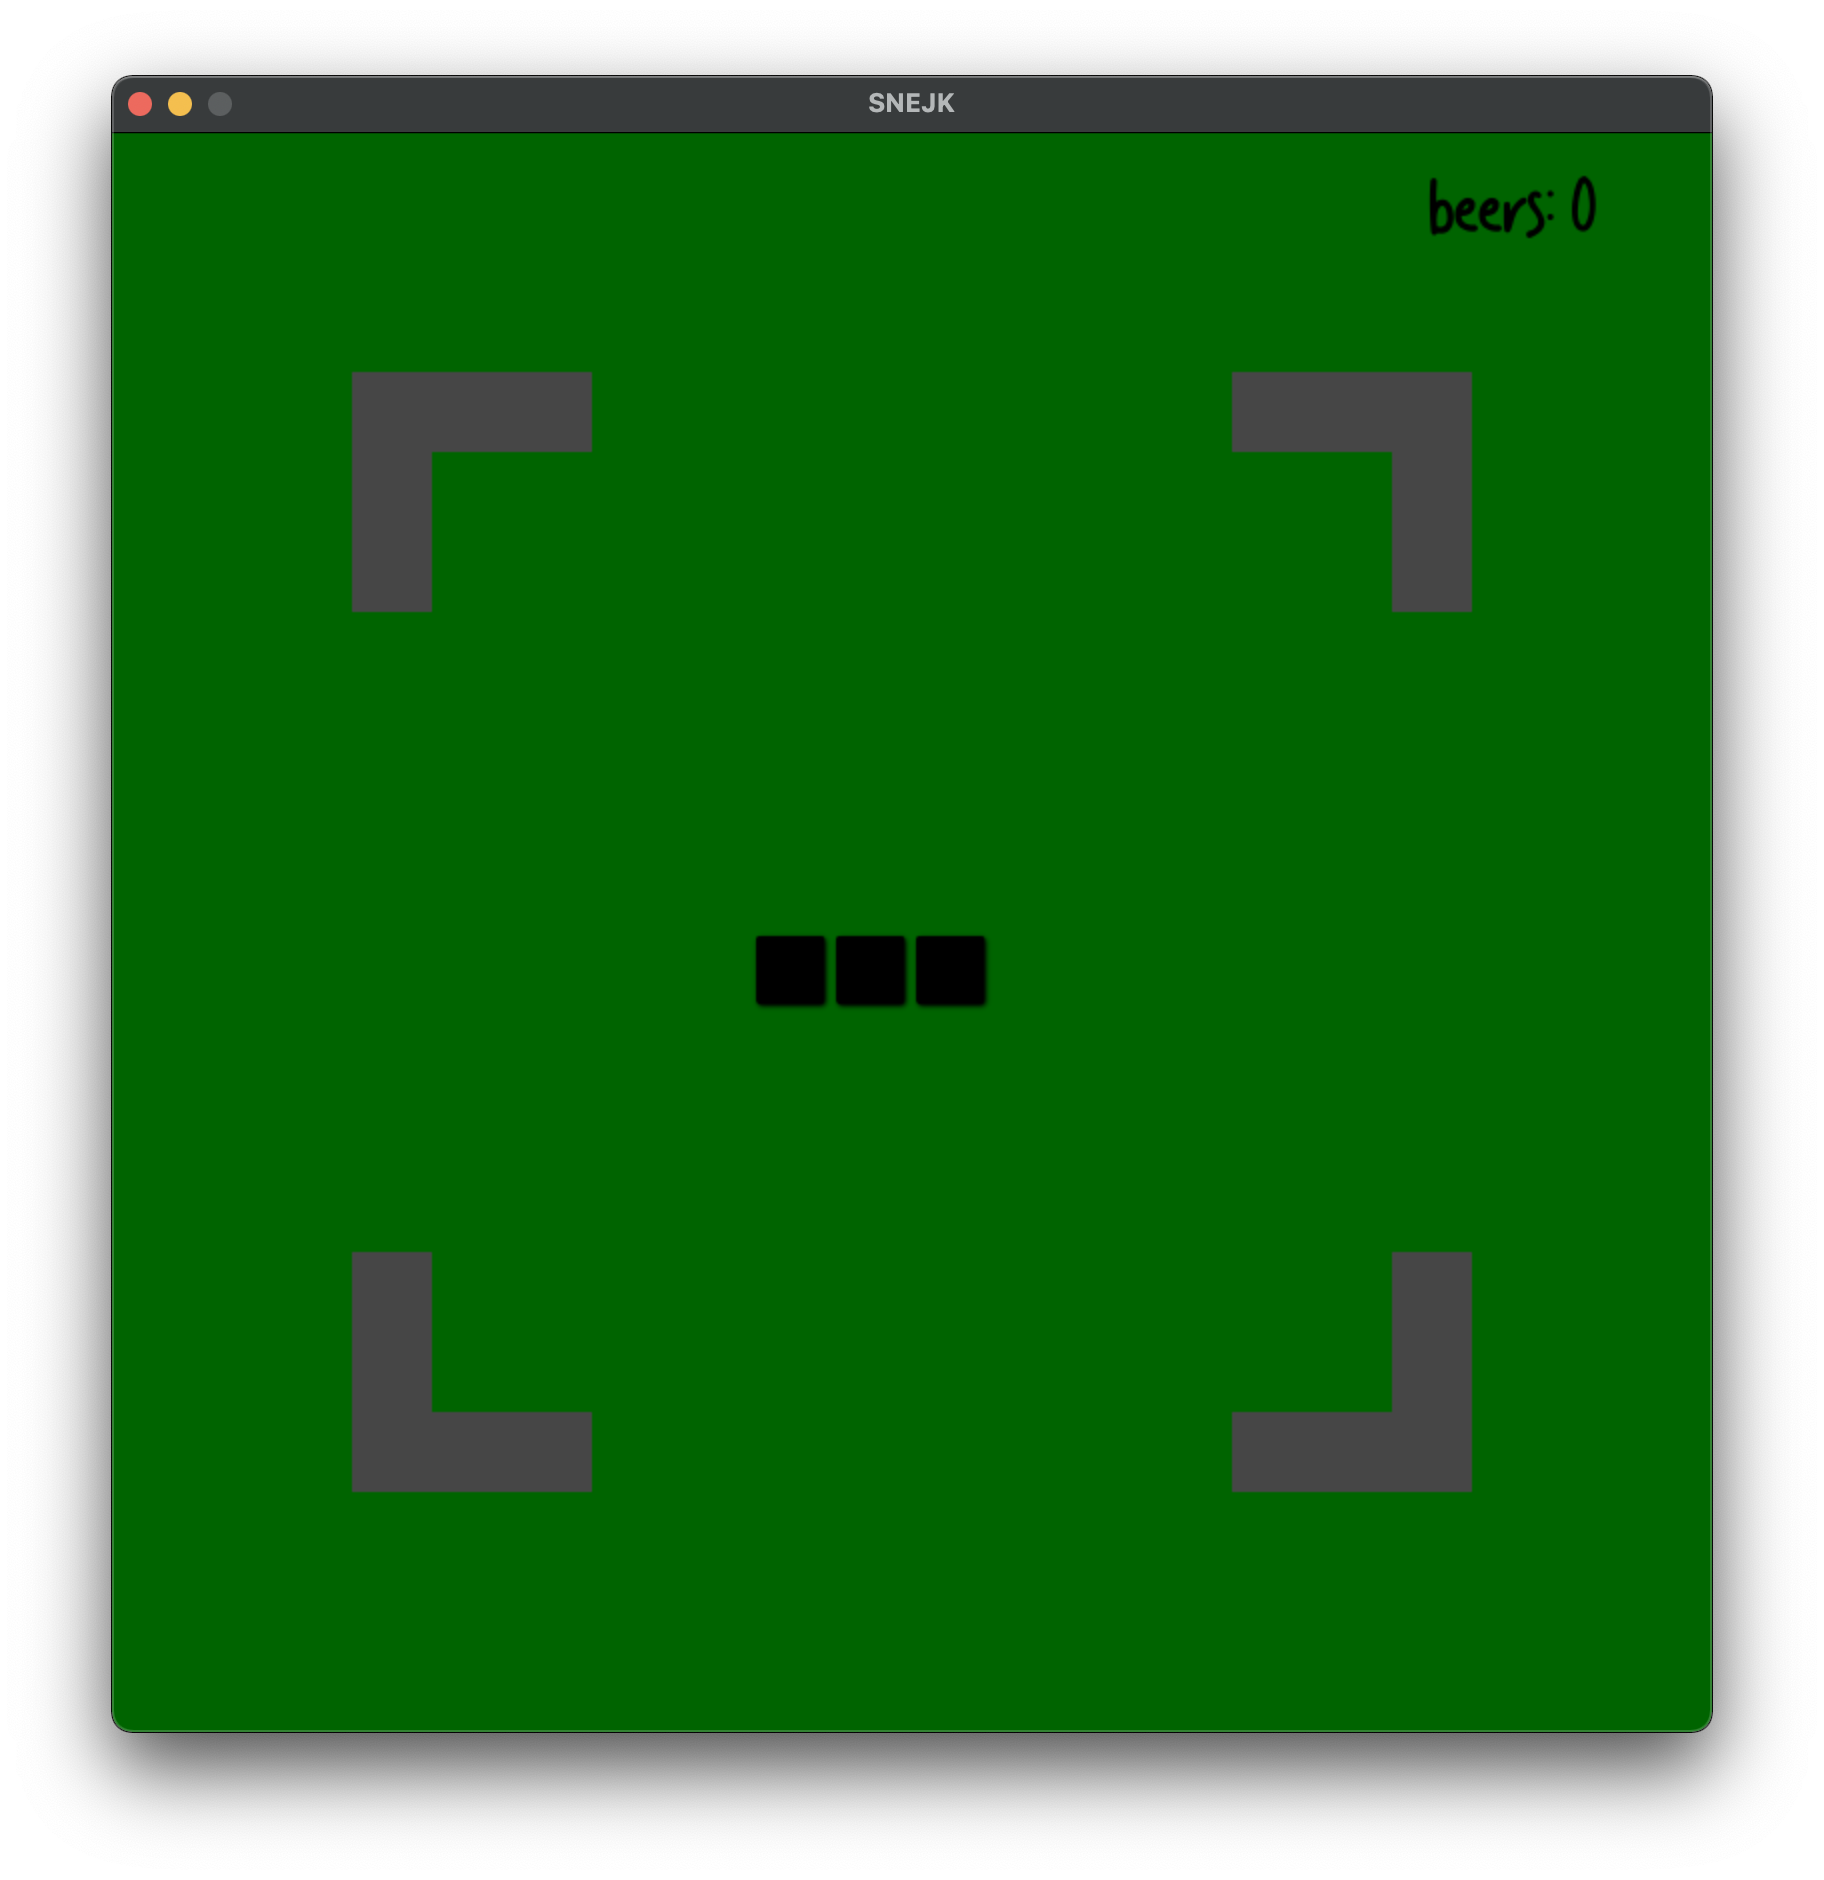
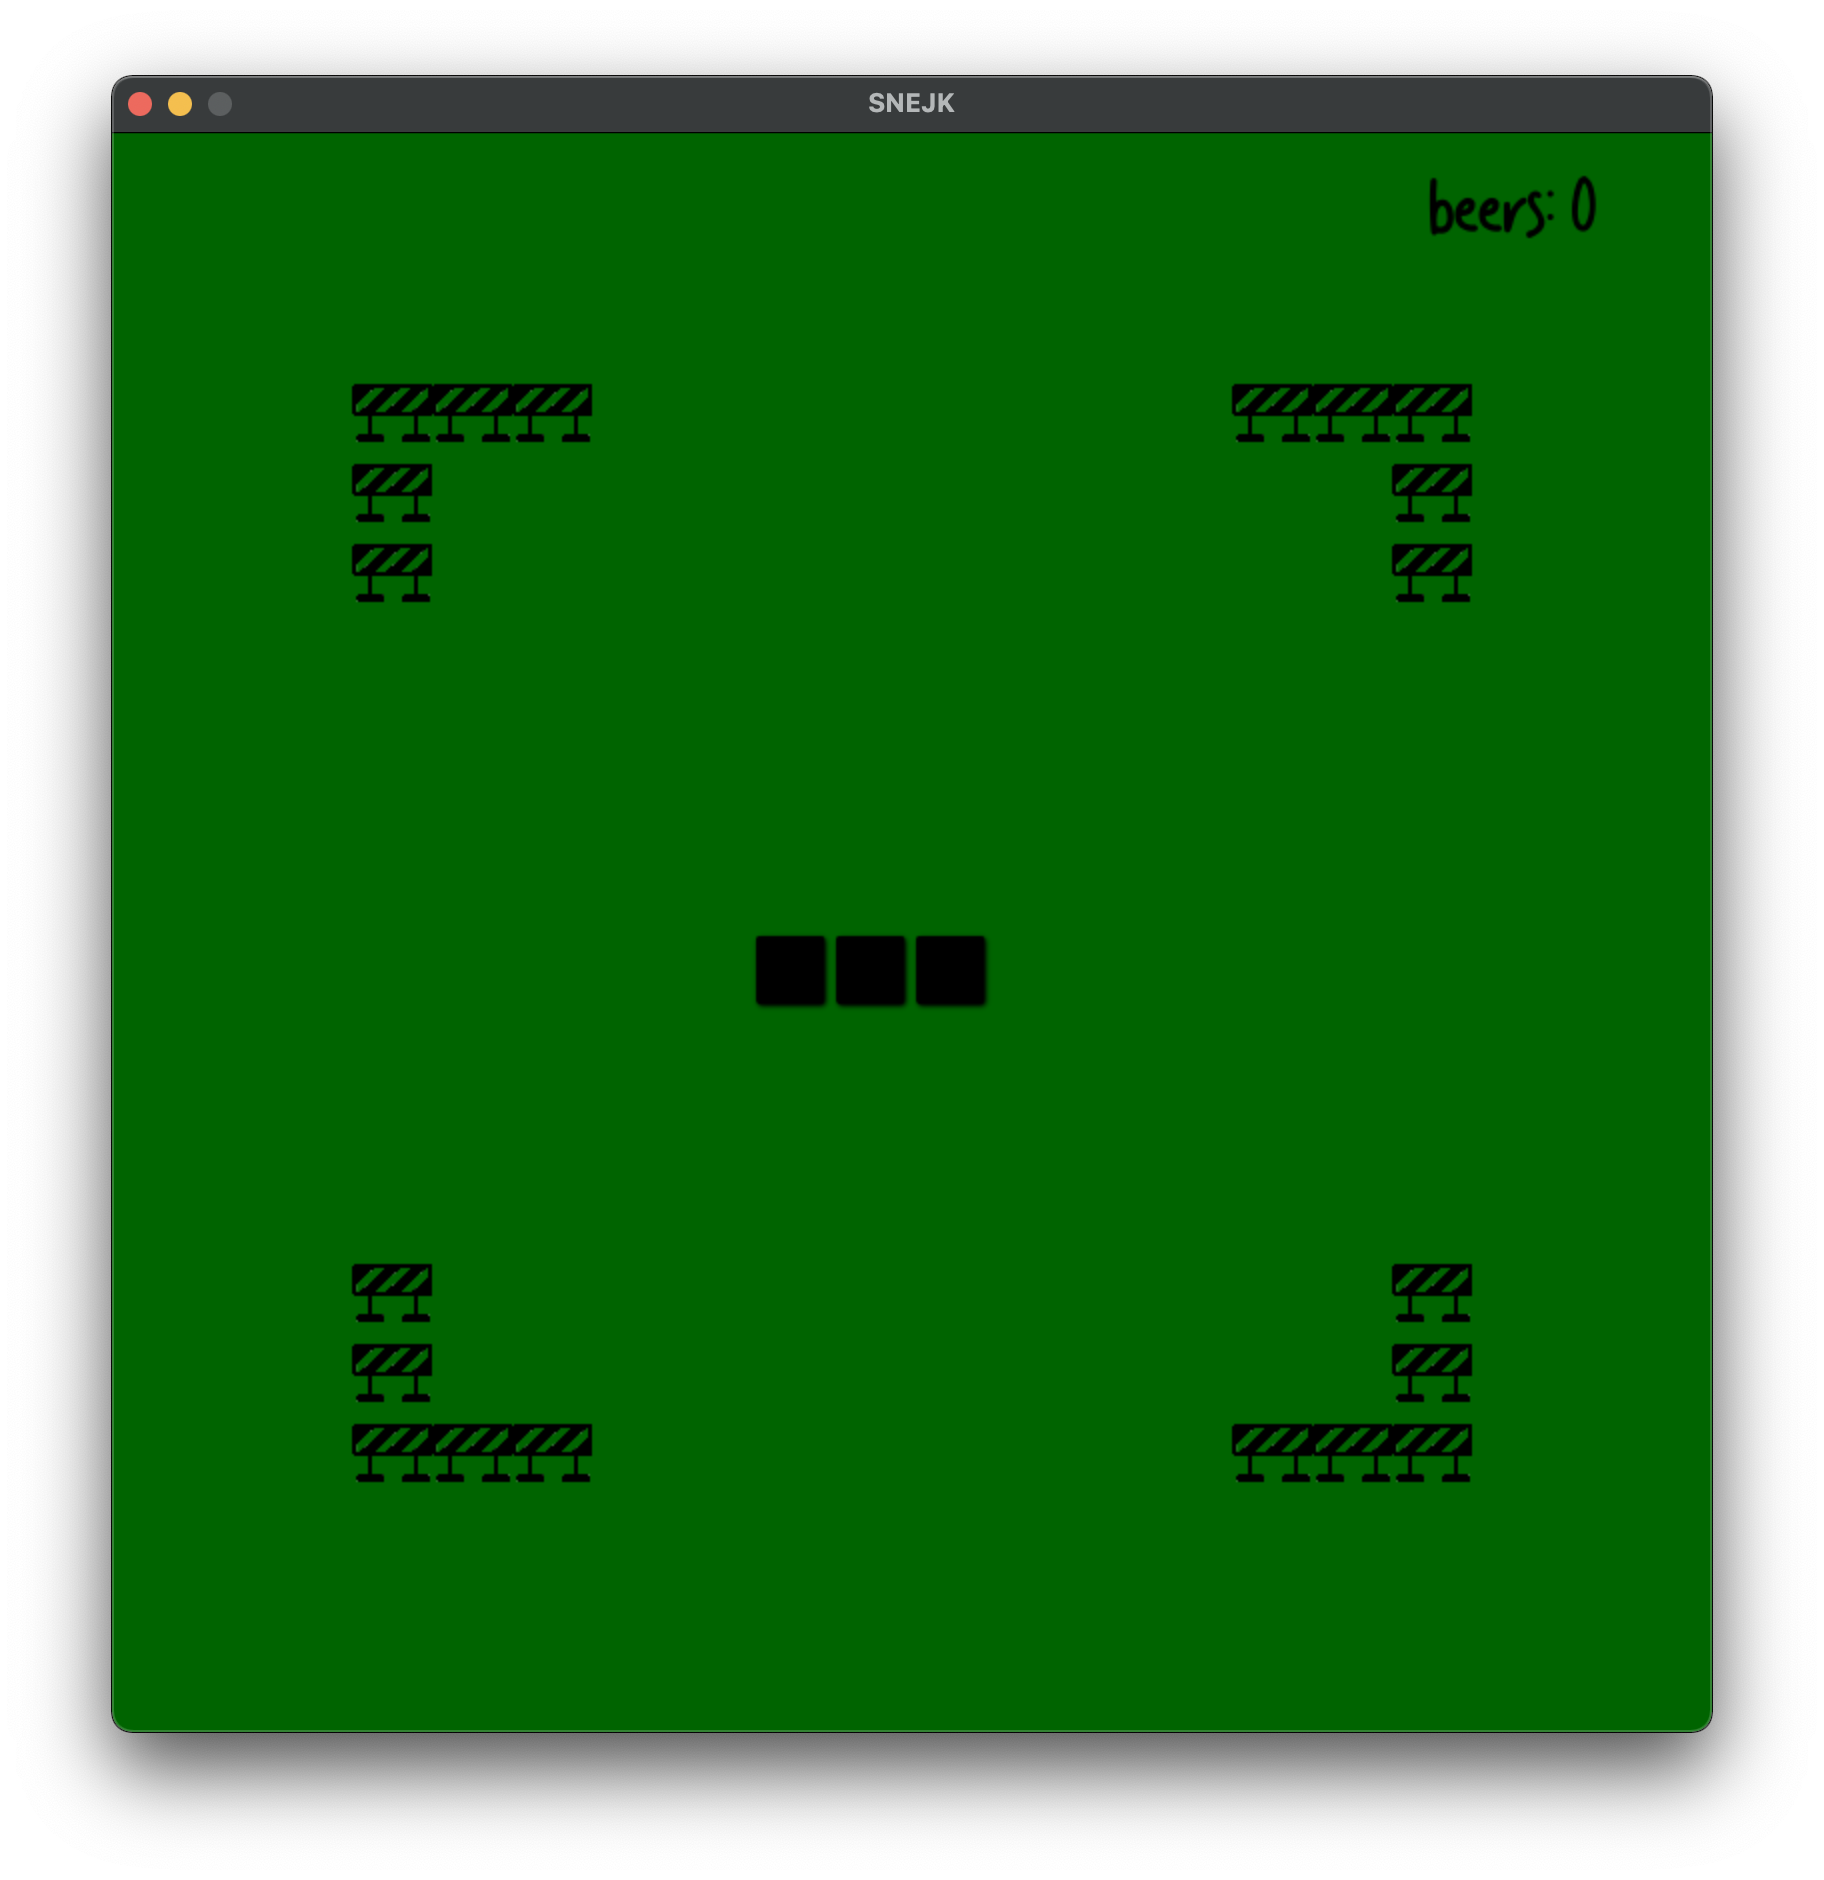
Added image for obstacles

diff --git a/snejk.py b/snejk.py
@@ -63,7 +63,7 @@ class GAME():
         self.map = 1
         self.finger_pos = 60
         self.obstacles = []
-        # self.obs_img = pg.transform.scale(pg.image.load('Images/obstacle.png'), (40,40)).convert_alpha()
+        self.obs_img = pg.transform.scale(pg.image.load('Images/obstacle.png'), (40,40)).convert_alpha()
         ## FONT
         self.font = pg.font.Font('Fonts/Sticky_Notes.TTF', 40)
         self.font_title = pg.font.Font('Fonts/Sticky_Notes.TTF', 100)
@@ -256,8 +256,7 @@ class GAME():
     def draw_obstacles(self):
         for vector in self.obstacles:
             obs_rect = pg.Rect((vector.x) * tile_size, (vector.y) * tile_size, tile_size, tile_size)
-            # win.blit(self.obs_img, obs_rect)
-            pg.draw.rect(win, pg.Color(70, 70, 70), obs_rect)
+            win.blit(self.obs_img, obs_rect)
 
     ## Drawing score
     def draw_score(self):
